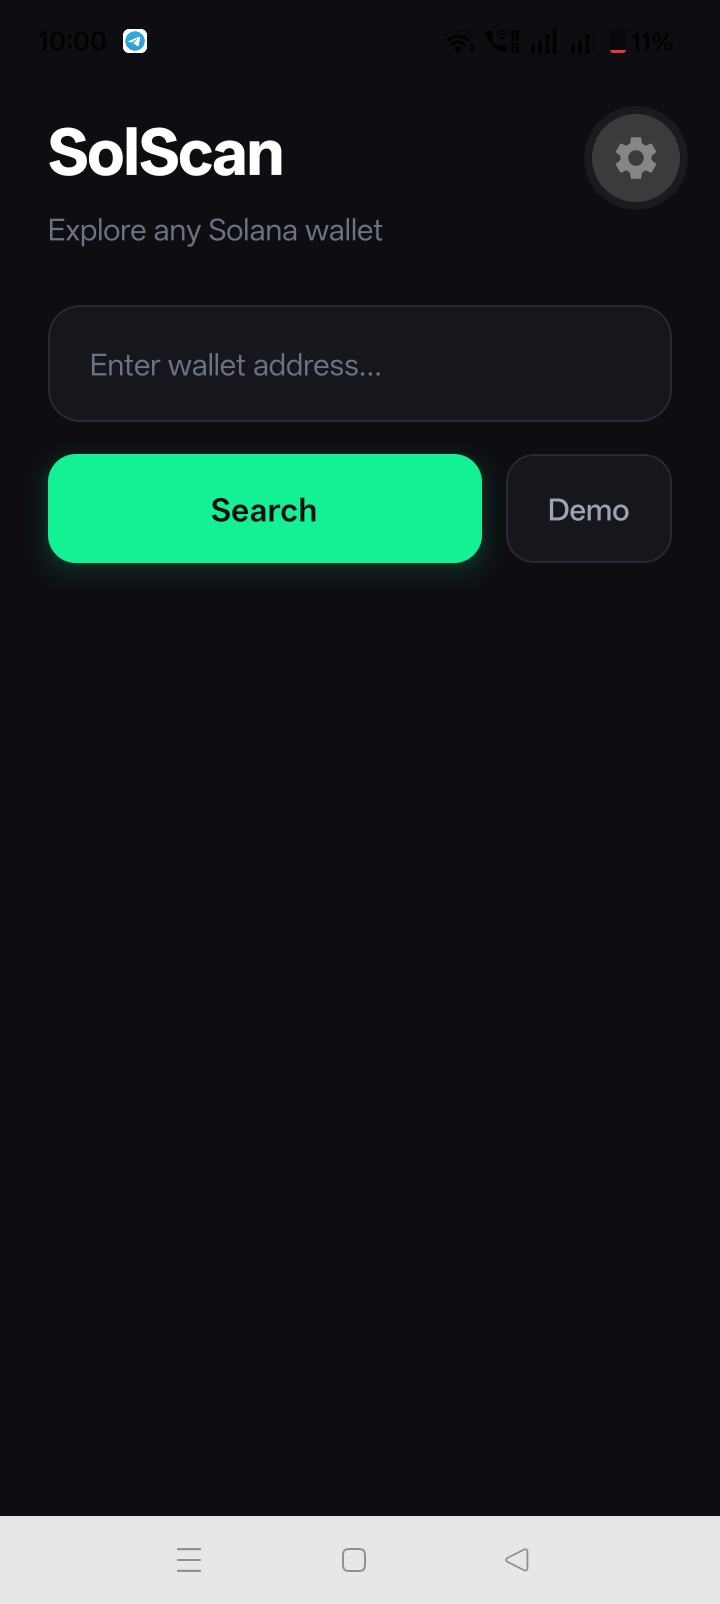
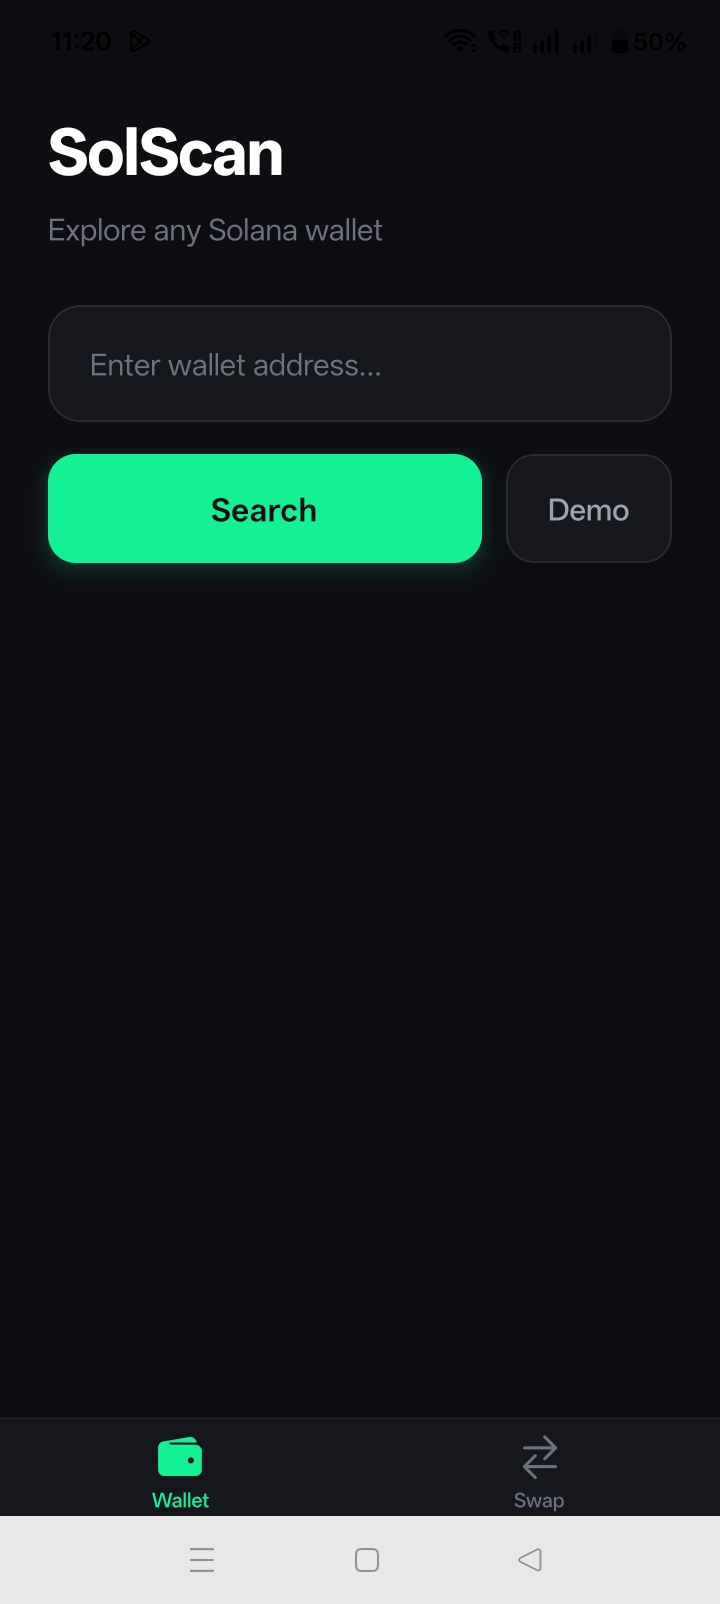
CHORE: demo image updatedd

diff --git a/README.md b/README.md
@@ -9,6 +9,11 @@ A React Native app to explore Solana wallets. View SOL balance, token holdings, 
   <img src="assets/demo-2.jpeg" width="31%" alt="Demo 2" />
   <img src="assets/demo-3.jpeg" width="31%" alt="Demo 3" />
 </p>
+<p align="center">
+  <img src="assets/demo-4.jpeg" width="31%" alt="Demo 1" />
+  <img src="assets/demo-5.jpeg" width="31%" alt="Demo 2" />
+  <!-- <img src="assets/demo-3.jpeg" width="31%" alt="Demo 3" /> -->
+</p>
 
 ## Features
 
